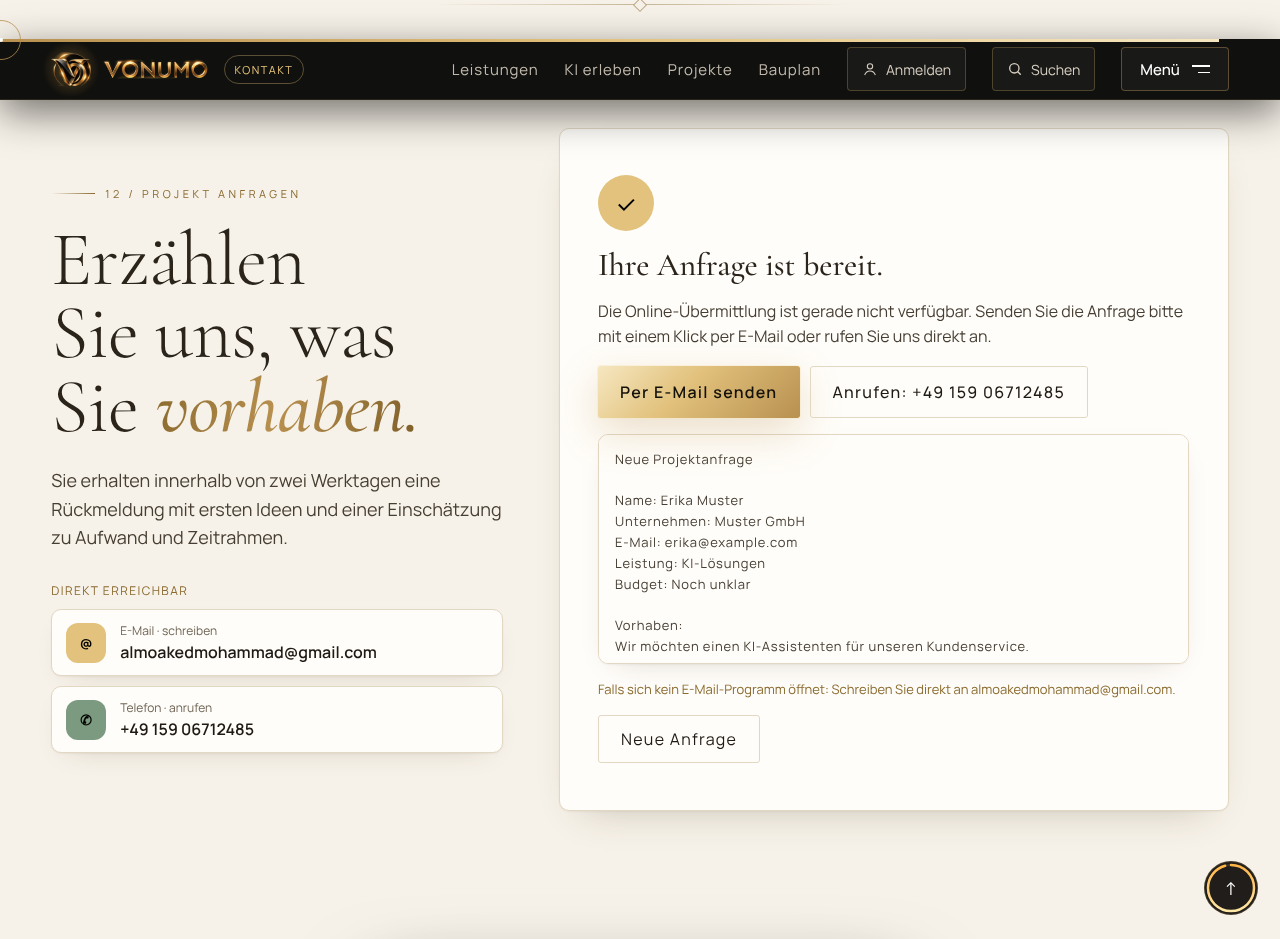
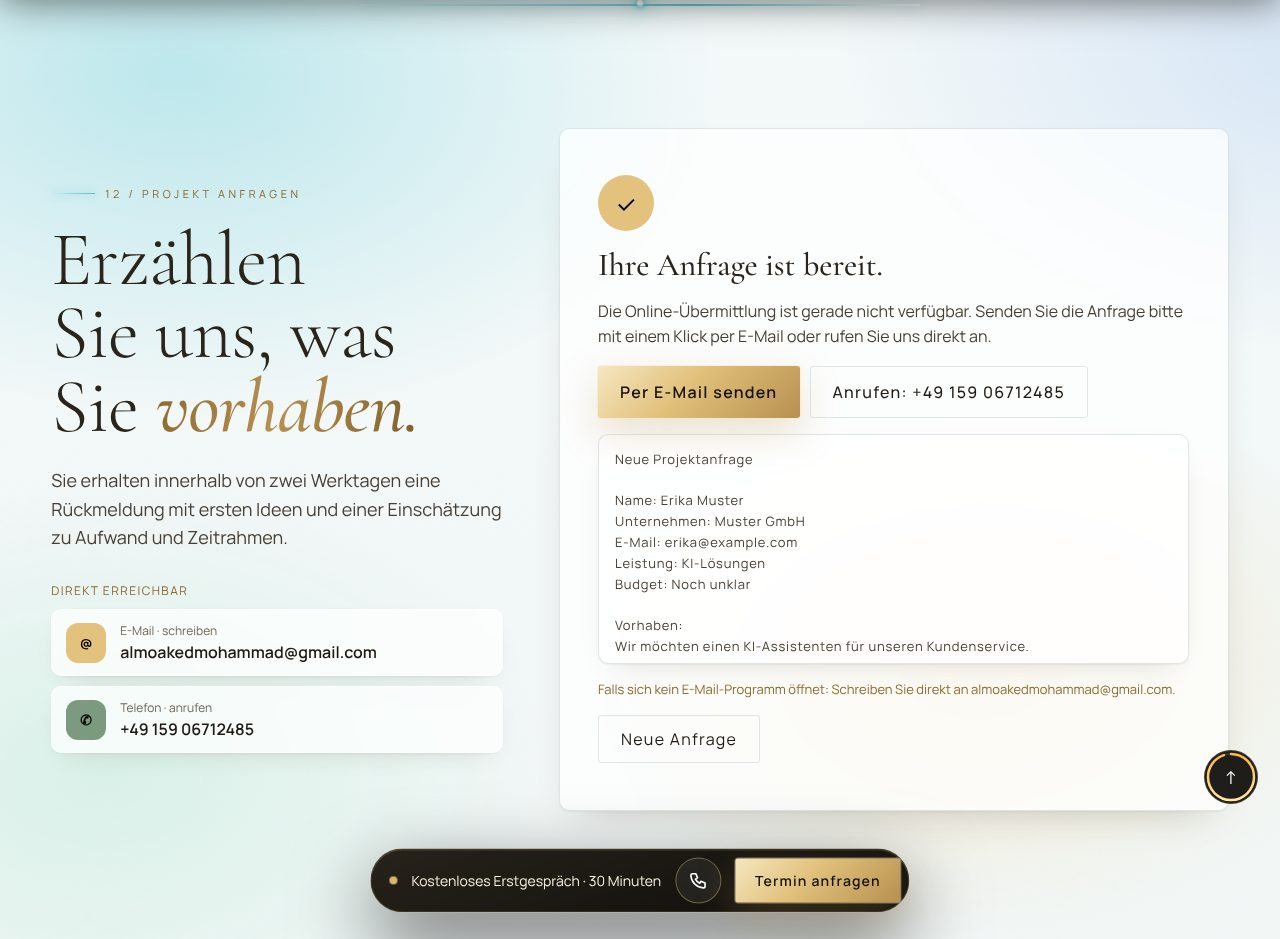
Flüssige Wasserfarben im Hintergrund und LED-Lichtakzente
- Sanft fließender Hintergrund aus Aqua, Perlblau, Mint und Gold (nur GPU-Transform)
- Glas-Karten, leuchtende LED-Linien zwischen den Bereichen und unter dem Header
- Logo-Karte mit pulsierendem Lichtrand, Karten leuchten beim Hover
- Header vollständig deckend

Claude-Session: https://claude.ai/code/session_01Nygah7FJ67MANp8owc1mQM

diff --git a/index.html b/index.html
@@ -782,7 +782,7 @@ footer{background:radial-gradient(ellipse 50% 60% at 50% 30%,rgba(184,144,79,.14
 .layer>section:not(#top):not(.mq-wrap) [style*="background: rgb(3, 3, 2)"]:not(.kd):not(.kd *),
 .layer>section:not(#top):not(.mq-wrap) [style*="background:rgb(3, 3, 2)"]:not(.kd):not(.kd *),
 .layer>section:not(#top):not(.mq-wrap) [style*="background:#030302"]:not(.kd):not(.kd *),
-.layer>section:not(#top):not(.mq-wrap) [style*="background:rgb(3, 3, 2)"]:not(.kd):not(.kd *){background:#FFFDF9 !important;box-shadow:0 1px 2px rgba(60,45,20,.05),0 10px 30px -18px rgba(60,45,20,.25) !important}
+.layer>section:not(#top):not(.mq-wrap) [style*="background:rgb(3, 3, 2)"]:not(.kd):not(.kd *){background:rgba(255,255,255,.74) !important;box-shadow:0 1px 2px rgba(60,45,20,.05),0 10px 30px -18px rgba(60,45,20,.25) !important}
 .layer>section:not(#top):not(.mq-wrap) [style*="rgba(255, 255, 255, 0.03)"]:not(.kd):not(.kd *),
 .layer>section:not(#top):not(.mq-wrap) [style*="rgba(255,255,255,.03)"]:not(.kd):not(.kd *),
 .layer>section:not(#top):not(.mq-wrap) [style*="rgba(255, 255, 255, 0.04)"]:not(.kd):not(.kd *),
@@ -790,7 +790,7 @@ footer{background:radial-gradient(ellipse 50% 60% at 50% 30%,rgba(184,144,79,.14
 .layer>section:not(#top):not(.mq-wrap) [style*="rgba(255, 255, 255, 0.06)"]:not(.kd):not(.kd *),
 .layer>section:not(#top):not(.mq-wrap) [style*="rgba(255,255,255,.06)"]:not(.kd):not(.kd *),
 .layer>section:not(#top):not(.mq-wrap) [style*="rgba(255, 255, 255, 0.1)"]:not(.kd):not(.kd *),
-.layer>section:not(#top):not(.mq-wrap) [style*="rgba(255,255,255,.1)"]:not(.kd):not(.kd *){background:#F3EDE2 !important}
+.layer>section:not(#top):not(.mq-wrap) [style*="rgba(255,255,255,.1)"]:not(.kd):not(.kd *){background:rgba(255,255,255,.55) !important}
 .layer>section:not(#top):not(.mq-wrap) [style*="background: #28241A"]:not(.kd):not(.kd *),
 .layer>section:not(#top):not(.mq-wrap) [style*="background: rgb(40, 36, 26)"]:not(.kd):not(.kd *),
 .layer>section:not(#top):not(.mq-wrap) [style*="background:rgb(40, 36, 26)"]:not(.kd):not(.kd *),
@@ -807,7 +807,7 @@ footer{background:radial-gradient(ellipse 50% 60% at 50% 30%,rgba(184,144,79,.14
 .layer>section:not(#top):not(.mq-wrap) [style*="background: rgb(25, 22, 16)"]:not(.kd):not(.kd *),
 .layer>section:not(#top):not(.mq-wrap) [style*="background:rgb(25, 22, 16)"]:not(.kd):not(.kd *),
 .layer>section:not(#top):not(.mq-wrap) [style*="background:#28241A"]:not(.kd):not(.kd *),
-.layer>section:not(#top):not(.mq-wrap) [style*="background:rgb(40, 36, 26)"]:not(.kd):not(.kd *){background:#E8DFCF !important}
+.layer>section:not(#top):not(.mq-wrap) [style*="background:rgb(40, 36, 26)"]:not(.kd):not(.kd *){background:rgba(120,150,160,.16) !important}
 .layer>section:not(#top):not(.mq-wrap) [style*="rgba(201, 164, 92"]:not(.kd):not(.kd *),
 .layer>section:not(#top):not(.mq-wrap) [style*="rgba(201,164,92"]:not(.kd):not(.kd *),
 .layer>section:not(#top):not(.mq-wrap) [style*="rgba(232, 197, 122"]:not(.kd):not(.kd *),
@@ -817,7 +817,7 @@ footer{background:radial-gradient(ellipse 50% 60% at 50% 30%,rgba(184,144,79,.14
 .layer>section:not(#top):not(.mq-wrap) [style*="#3A3426"]:not(.kd):not(.kd *),
 .layer>section:not(#top):not(.mq-wrap) [style*="rgb(58, 52, 38)"]:not(.kd):not(.kd *),
 .layer>section:not(#top):not(.mq-wrap) [style*="#6E5C38"]:not(.kd):not(.kd *),
-.layer>section:not(#top):not(.mq-wrap) [style*="rgb(110, 92, 56)"]:not(.kd):not(.kd *){border-color:#E2D7C3 !important}
+.layer>section:not(#top):not(.mq-wrap) [style*="rgb(110, 92, 56)"]:not(.kd):not(.kd *){border-color:rgba(140,170,180,.28) !important}
 .layer>section:not(#top):not(.mq-wrap) [style*="rgba(232, 197, 122, 0.1)"]:not(.kd):not(.kd *),
 .layer>section:not(#top):not(.mq-wrap) [style*="rgba(232,197,122,.1)"]:not(.kd):not(.kd *),
 .layer>section:not(#top):not(.mq-wrap) [style*="rgba(232, 197, 122, 0.07)"]:not(.kd):not(.kd *),
@@ -827,9 +827,9 @@ footer{background:radial-gradient(ellipse 50% 60% at 50% 30%,rgba(184,144,79,.14
 .layer>section:not(#top):not(.mq-wrap) [style*="rgba(243, 227, 191, 0.22)"]:not(.kd):not(.kd *),
 .layer>section:not(#top):not(.mq-wrap) [style*="rgba(243,227,191,.22)"]:not(.kd):not(.kd *){background:#F6EEDD !important}
 
-.layer>section:not(#top):not(.mq-wrap) .glass:not(.kd):not(.kd *){background:#FFFDF9 !important;border-color:#E2D7C3 !important;box-shadow:0 1px 2px rgba(60,45,20,.05),0 18px 40px -24px rgba(60,45,20,.3) !important}
+.layer>section:not(#top):not(.mq-wrap) .glass:not(.kd):not(.kd *){background:rgba(255,255,255,.74) !important;border-color:rgba(140,170,180,.28) !important;box-shadow:0 1px 2px rgba(60,45,20,.05),0 18px 40px -24px rgba(60,45,20,.3) !important}
 .layer>section:not(#top):not(.mq-wrap) .holo{box-shadow:0 18px 40px -24px rgba(60,45,20,.35) !important}
-.layer>section:not(#top):not(.mq-wrap) .holo .face{background:#FFFDF9 !important;color:#2A241B}
+.layer>section:not(#top):not(.mq-wrap) .holo .face{background:rgba(255,255,255,.74) !important;color:#2A241B}
 .layer>section:not(#top):not(.mq-wrap) .holo li{color:#463E33 !important}
 .layer>section:not(#top):not(.mq-wrap) .holo .face > div > span:not(.mono):not(.num-big):not(.sale-badge){color:#463E33}
 .layer>section:not(#top):not(.mq-wrap) .holo .mono:not([style*="background"]){color:#8A6A2F !important}
@@ -839,7 +839,7 @@ footer{background:radial-gradient(ellipse 50% 60% at 50% 30%,rgba(184,144,79,.14
 .layer>section:not(#top):not(.mq-wrap) .fld::placeholder,.layer>section:not(#top):not(.mq-wrap) input::placeholder,.layer>section:not(#top):not(.mq-wrap) textarea::placeholder{color:#9A8F7E}
 .layer>section:not(#top):not(.mq-wrap) .fld:focus{border-color:#8A6A2F !important;box-shadow:0 0 0 3px rgba(138,106,47,.18) !important}
 .layer>section:not(#top):not(.mq-wrap) input:not(.kd):not(.kd *){color:#1F1A13 !important}
-.layer>section:not(#top):not(.mq-wrap) .rng{background:linear-gradient(90deg,var(--acc) 0 var(--p,50%),#E8DFCF var(--p,50%))}
+.layer>section:not(#top):not(.mq-wrap) .rng{background:linear-gradient(90deg,var(--acc) 0 var(--p,50%),rgba(120,150,160,.16) var(--p,50%))}
 .layer>section:not(#top):not(.mq-wrap) .rng::-webkit-slider-thumb{box-shadow:0 0 0 4px var(--acc),0 2px 8px rgba(60,45,20,.25)}
 .layer>section:not(#top):not(.mq-wrap) .rng::-moz-range-thumb{box-shadow:0 0 0 4px var(--acc),0 2px 8px rgba(60,45,20,.25)}
 .layer>section:not(#top):not(.mq-wrap) .spot::before{display:none}
@@ -847,19 +847,44 @@ footer{background:radial-gradient(ellipse 50% 60% at 50% 30%,rgba(184,144,79,.14
 @media (hover:hover){.layer>section:not(#top):not(.mq-wrap) .spot:hover,.layer>section:not(#top):not(.mq-wrap) .spot:focus-visible,.layer>section:not(#top):not(.mq-wrap) .spot[data-tilt]:hover{box-shadow:0 1px 2px rgba(60,45,20,.06),0 24px 50px -24px rgba(60,45,20,.35),0 0 0 1px rgba(138,106,47,.35) !important}}
 .layer>section:not(#top):not(.mq-wrap) .pill-btn:hover{background:rgba(138,106,47,.08);border-color:#8A6A2F;color:#1F1A13}
 .layer>section:not(#top):not(.mq-wrap) .faq-q:hover{color:#8A6A2F}
-.layer>section:not(#top):not(.mq-wrap) .guide-btn{background:#FFFDF9}
+.layer>section:not(#top):not(.mq-wrap) .guide-btn{background:rgba(255,255,255,.74)}
 .layer>section:not(#top):not(.mq-wrap) .cb-card{background:#F1F4EE;border-color:#B9C9B6}
 .layer>section:not(#top):not(.mq-wrap) .cb-lbl{color:#55745A}
 .layer>section:not(#top):not(.mq-wrap) .cb-tel{color:#1F1A13}
 .layer>section:not(#top):not(.mq-wrap) .cb-sub,.layer>section:not(#top):not(.mq-wrap) .help-row{color:#6E6455}
 .layer>section:not(#top):not(.mq-wrap) .cb-btn,.layer>section:not(#top):not(.mq-wrap) .help-btn{color:#1F1A13;background:#FFFFFF;border-color:#D9CDB6}
-.layer>section:not(#top):not(.mq-wrap) .cb-form{background:#FFFDF9;border-color:#E2D7C3}
+.layer>section:not(#top):not(.mq-wrap) .cb-form{background:rgba(255,255,255,.74);border-color:rgba(140,170,180,.28)}
 .layer>section:not(#top):not(.mq-wrap) .cb-f{color:#463E33}
 .layer>section:not(#top):not(.mq-wrap) .cube > span{border-color:rgba(138,106,47,.7);background:rgba(184,144,79,.10);box-shadow:inset 0 0 30px rgba(184,144,79,.25)}
 .layer>section:not(#top):not(.mq-wrap) .kd .cube > span{border-color:rgba(232,197,122,.7);background:rgba(150,118,62,.14);box-shadow:inset 0 0 36px rgba(201,164,92,.5)}
 .layer>section:not(#top):not(.mq-wrap) .typing span{background:#8A6A2F}
 .layer>section:not(#top):not(.mq-wrap) ul li > span[aria-hidden="true"]{box-shadow:none}
 .layer>section:not(#top):not(.mq-wrap) .kd{color:#F7EFDD}
+/* ================= Flüssige Wasserfarben + LED-Licht ================= */
+:root{--aqua:#4FBFCC;--aqua2:#8FD9E2;--pearl:#F3F8F9;--ledg:#E2C27D}
+.layer::before,.layer::after{content:"";position:fixed;inset:-25%;z-index:-1;pointer-events:none;will-change:transform}
+.layer::before{background:radial-gradient(38% 34% at 22% 28%,rgba(143,217,226,.55),transparent 70%),radial-gradient(34% 30% at 78% 22%,rgba(191,214,242,.55),transparent 70%),linear-gradient(180deg,#F4F9FA,#F1F6F5);animation:liq1 26s ease-in-out infinite alternate}
+.layer::after{background:radial-gradient(30% 28% at 70% 75%,rgba(243,221,176,.50),transparent 70%),radial-gradient(32% 30% at 25% 80%,rgba(196,236,221,.55),transparent 70%);animation:liq2 32s ease-in-out infinite alternate}
+@keyframes liq1{0%{transform:translate3d(0,0,0) scale(1)}50%{transform:translate3d(6%,4%,0) scale(1.08) rotate(4deg)}100%{transform:translate3d(-5%,6%,0) scale(1.04) rotate(-3deg)}}
+@keyframes liq2{0%{transform:translate3d(0,0,0) scale(1.05)}50%{transform:translate3d(-6%,-5%,0) scale(1) rotate(-5deg)}100%{transform:translate3d(5%,-2%,0) scale(1.1) rotate(3deg)}}
+.layer>section:not(#top):not(.mq-wrap),.layer>section:not(#top):not(.mq-wrap):nth-of-type(odd),#top{background:transparent !important}
+.layer>section:not(#top):not(.mq-wrap)::after{background:#FFFFFF !important;border:0 !important;width:6px !important;height:6px !important;border-radius:50%;rotate:0deg !important;box-shadow:0 0 6px 2px rgba(79,191,204,.9),0 0 18px 6px rgba(79,191,204,.35);animation:ledPulse 3.2s ease-in-out infinite}
+.layer>section:not(#top):not(.mq-wrap)::before{height:2px !important;width:min(560px,80%) !important;background:linear-gradient(90deg,transparent,rgba(79,191,204,.9) 30%,#FFFFFF 50%,rgba(226,194,125,.95) 70%,transparent) !important;background-size:200% 100% !important;box-shadow:0 0 12px rgba(79,191,204,.55);animation:ledRun 6s linear infinite}
+@keyframes ledPulse{0%,100%{opacity:.55;transform:scale(.85)}50%{opacity:1;transform:scale(1.15)}}
+@keyframes ledRun{from{background-position:200% 0}to{background-position:-200% 0}}
+header.site-hdr{position:sticky;background:rgba(6,6,5,.97) !important}
+header.site-hdr::after{content:"";position:absolute;left:0;right:0;bottom:-1px;height:2px;pointer-events:none;background:linear-gradient(90deg,transparent,rgba(79,191,204,.85),#F6E7C1,rgba(226,194,125,.9),rgba(79,191,204,.85),transparent);background-size:200% 100%;box-shadow:0 0 14px rgba(79,191,204,.6),0 0 30px rgba(226,194,125,.25);animation:ledRun 9s linear infinite}
+#top .hero-stage::before{box-shadow:0 0 0 1px rgba(226,194,125,.35),0 0 26px 2px rgba(79,191,204,.35),0 0 70px 6px rgba(79,191,204,.18),0 40px 80px -40px rgba(30,60,70,.5) !important;animation:ledCard 5s ease-in-out infinite}
+@keyframes ledCard{0%,100%{box-shadow:0 0 0 1px rgba(226,194,125,.35),0 0 22px 1px rgba(79,191,204,.28),0 0 60px 4px rgba(79,191,204,.12),0 40px 80px -40px rgba(30,60,70,.5)}50%{box-shadow:0 0 0 1px rgba(226,194,125,.6),0 0 34px 3px rgba(79,191,204,.5),0 0 90px 10px rgba(79,191,204,.22),0 40px 80px -40px rgba(30,60,70,.5)}}
+#top{color:#1A2326}
+.layer>section:not(#top):not(.mq-wrap) .glass,.layer>section:not(#top):not(.mq-wrap) [style*="rgba(9, 8, 6"]:not(.kd):not(.kd *){border-color:rgba(255,255,255,.8) !important}
+@supports ((-webkit-backdrop-filter:blur(1px)) or (backdrop-filter:blur(1px))){@media (hover:hover){.layer>section:not(#top):not(.mq-wrap) .glass:not(.kd):not(.kd *),.layer>section:not(#top):not(.mq-wrap) .spot:not(.kd):not(.kd *),.layer>section:not(#top):not(.mq-wrap) .holo .face{-webkit-backdrop-filter:blur(12px) saturate(1.2);backdrop-filter:blur(12px) saturate(1.2)}}}
+@media (hover:hover){.layer>section:not(#top):not(.mq-wrap) .spot:hover,.layer>section:not(#top):not(.mq-wrap) .spot:focus-visible,.layer>section:not(#top):not(.mq-wrap) .spot[data-tilt]:hover{box-shadow:0 0 0 1px rgba(79,191,204,.55),0 0 22px rgba(79,191,204,.35),0 24px 50px -24px rgba(30,60,70,.35) !important}}
+.layer>section:not(#top):not(.mq-wrap) .eyebrow::before{background:linear-gradient(90deg,transparent,#4FBFCC);box-shadow:0 0 8px rgba(79,191,204,.8)}
+#top .eyebrow::before{background:linear-gradient(90deg,transparent,#4FBFCC);box-shadow:0 0 8px rgba(79,191,204,.8)}
+.progress{background:linear-gradient(90deg,#4FBFCC,#F6E7C1,#E2C27D) !important;box-shadow:0 0 10px rgba(79,191,204,.7)}
+@media (prefers-reduced-motion:reduce){.layer::before,.layer::after,.layer>section:not(#top):not(.mq-wrap)::before,.layer>section:not(#top):not(.mq-wrap)::after,header.site-hdr::after,#top .hero-stage::before{animation:none !important}}
+
 .legal{color:#2A241B}
 </style>
 </helmet>
